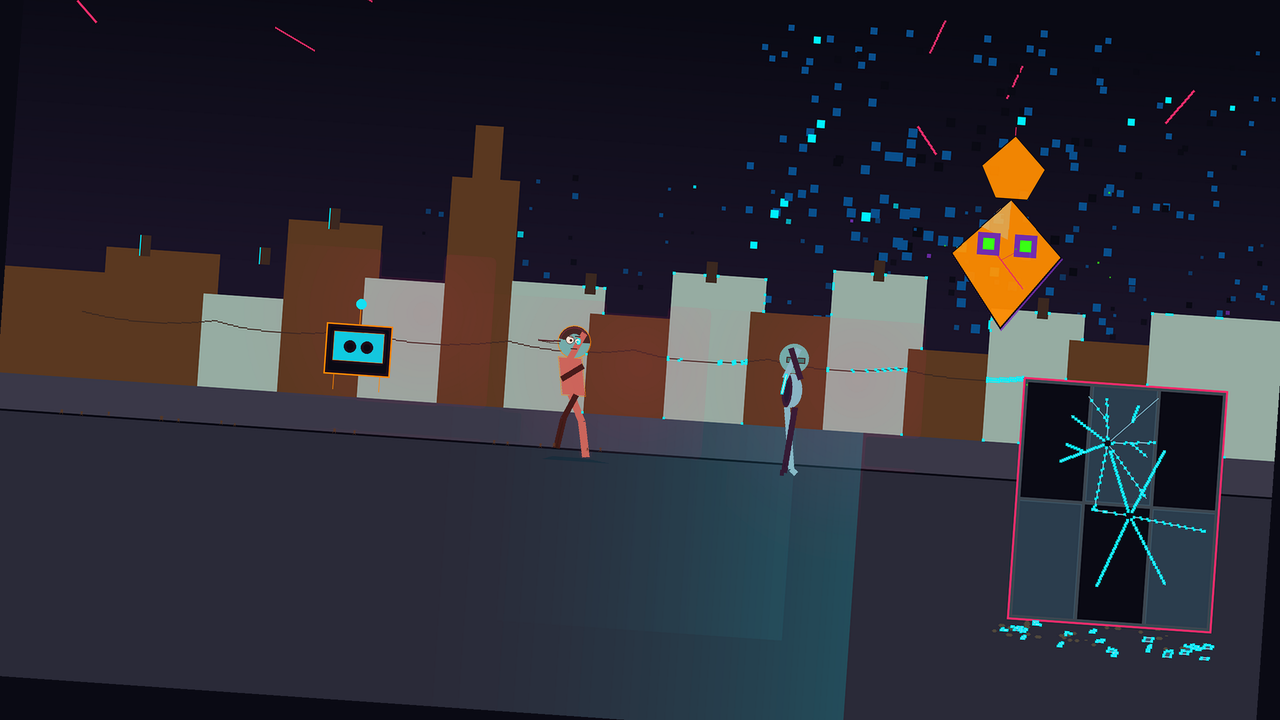
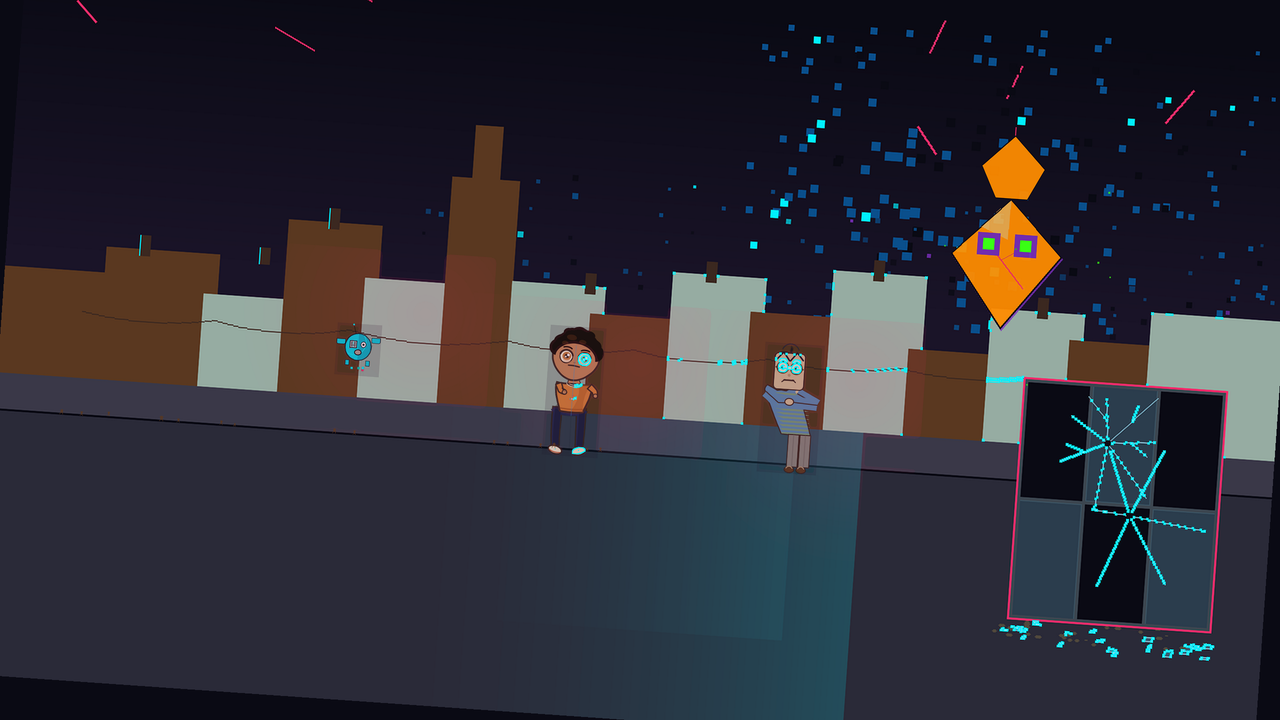
C54 Jordan Reed: migrate SF02 Luma/Cosmo/Byte to canonical char renderers
All three SF02 foreground characters now use canonical char_*.py modular renderers
(draw_luma DETERMINED / draw_cosmo WORRIED / draw_byte alarmed) instead of the
local hand-drawn PIL fallbacks.

Pattern: cairo surface -> to_pil_rgba -> getbbox crop -> resize to scene scale ->
alpha_composite at foot/center position.

GL scene tint (NIGHT_SKY_DEEP, alpha=40) applied to each char bbox post-composite
to shift canonical warm-world hoodie colors into GL cold palette. This resolved a
SUNLIT_AMBER color_verify FAIL (delta was 10.5°, now 1.1° PASS).

QA: color_verify all PASS, face test gate PASS for all three expressions.
Glitch retains local pycairo renderer (unchanged). PIL fallback retained.

Changed region(s): [[0.5938, 0.4583, 0.6562, 0.6722], [0.4062, 0.4583, 0.4688, 0.6417], [0.25, 0.4278, 0.3125, 0.55]]

diff --git a/output/tools/LTG_TOOL_style_frame_02_glitch_storm.py b/output/tools/LTG_TOOL_style_frame_02_glitch_storm.py
@@ -6,11 +6,19 @@
 # upon such time as they acquire recognised legal personhood under applicable law.
 """
 LTG_TOOL_style_frame_02_glitch_storm.py
-Style Frame 02 — "Glitch Storm" — C53 pycairo Character Migration + Wand Compositing
+Style Frame 02 — "Glitch Storm" — C54 Canonical Character Migration
 "Luma & the Glitchkin"
 
-Artist: Jordan Reed | Cycle 53
-Based on: C44 Native Canvas Refactor (Jordan Reed, Cycle 44)
+Artist: Jordan Reed | Cycle 54
+Based on: C53 pycairo + Wand migration (Jordan Reed, Cycle 53)
+
+C54 changes (Jordan Reed):
+  CANONICAL CHARACTER MIGRATION:
+    - Luma, Cosmo, Byte now use canonical char_*.py modular renderers.
+      draw_luma("DETERMINED"), draw_cosmo("WORRIED"), draw_byte("alarmed").
+    - Glitch retains local pycairo renderer (background character, unchanged).
+    - Canonical chars: cairo surface -> PIL RGBA -> resize to scene scale -> alpha composite.
+    - PIL fallback retained if canonical renderers unavailable.
 
 C53 changes (Jordan Reed):
   PYCAIRO CHARACTER MIGRATION + WAND COMPOSITING:
@@ -73,6 +81,16 @@ try:
 except ImportError:
     _CAIRO_OK = False
     print("WARNING: pycairo/cairo_primitives not found — falling back to PIL character rendering.")
+
+# Canonical character renderers (C54 migration)
+try:
+    from LTG_TOOL_char_luma import draw_luma as _draw_luma_canonical
+    from LTG_TOOL_char_cosmo import draw_cosmo as _draw_cosmo_canonical
+    from LTG_TOOL_char_byte import draw_byte as _draw_byte_canonical
+    _CHAR_CANONICAL = True
+except ImportError:
+    _CHAR_CANONICAL = False
+    print("WARNING: canonical char renderers not found — falling back to local PIL character rendering.")
 
 # Wand compositing — graceful fallback to PIL
 _WAND_OK = False
@@ -151,6 +169,43 @@ STORM_RIM_CYAN  = (  0, 180, 220)
 STORM_RIM_UV    = ( 80,  30, 120)
 
 RNG = random.Random(42)
+
+
+def _cairo_char_to_pil(surface):
+    """Convert a canonical char cairo.ImageSurface to cropped PIL RGBA."""
+    pil_img = to_pil_rgba(surface)
+    bbox = pil_img.getbbox()
+    if bbox:
+        pil_img = pil_img.crop(bbox)
+    return pil_img
+
+
+def _composite_canonical_char(img, char_pil, cx, foot_y):
+    """Composite a canonical char PIL RGBA onto img.
+    cx: horizontal center; foot_y: Y of the character's feet (bottom of image).
+    """
+    x = cx - char_pil.width // 2
+    y = foot_y - char_pil.height
+    overlay = Image.new("RGBA", (W, H), (0, 0, 0, 0))
+    overlay.paste(char_pil, (x, y), char_pil)
+    base_rgba = img.convert("RGBA")
+    result = Image.alpha_composite(base_rgba, overlay)
+    img = result.convert("RGB")
+
+    # GL storm scene tint: cool UV-ambient overlay on character area (shifts warm hoodie
+    # toward GL cold palette). Alpha 40 = ~16% tint — enough to shift hue, not flatten.
+    char_x0 = max(0, x)
+    char_y0 = max(0, y)
+    char_x1 = min(W, x + char_pil.width)
+    char_y1 = min(H, foot_y)
+
+    tint_layer = Image.new("RGBA", (W, H), (0, 0, 0, 0))
+    td = ImageDraw.Draw(tint_layer)
+    td.rectangle([char_x0, char_y0, char_x1, char_y1],
+                 fill=(*NIGHT_SKY_DEEP, 40))
+    base_rgba2 = img.convert("RGBA")
+    result2 = Image.alpha_composite(base_rgba2, tint_layer)
+    return result2.convert("RGB")
 
 
 def lerp_color(c1, c2, t):
@@ -748,7 +803,10 @@ def _draw_glitch_storm_cairo(cx, cy, body_h):
 
 
 def draw_characters(img):
-    """Character layout — sprinting left-to-right across frame. Uses pycairo if available."""
+    """Character layout — sprinting left-to-right across frame.
+    C54: Luma, Cosmo, Byte use canonical char_*.py renderers.
+    Glitch uses local pycairo renderer (unchanged).
+    """
     horizon_y = int(H * 0.58)
     ground_y  = horizon_y + int((H - horizon_y) * 0.12)
     char_h = int(H * 0.18)
@@ -767,15 +825,57 @@ def draw_characters(img):
     glitch_cy = int(H * 0.32)
     glitch_body_h = int(char_h * 0.50)
 
-    # Glitch — pycairo if available, composited directly (background character)
+    # Glitch — pycairo local renderer (background character, unchanged)
     glitch_layer = _draw_glitch_storm_cairo(glitch_cx, glitch_cy, glitch_body_h)
     base_rgba = img.convert("RGBA")
     base_rgba = Image.alpha_composite(base_rgba, glitch_layer)
     img = base_rgba.convert("RGB")
 
-    img = _draw_luma(img, luma_cx, luma_foot_y, char_h)
-    img = _draw_cosmo(img, cosmo_cx, cosmo_foot_y, char_h)
-    img = _draw_byte_hovering(img, byte_cx, byte_float_y, char_h)
+    # ── C54: Canonical character renderers ───────────────────────────────────
+    if _CHAR_CANONICAL and _CAIRO_OK:
+        # Luma — DETERMINED sprint: scale = char_h / 400 (base_char_h in char_luma)
+        luma_scale = char_h / 400.0
+        luma_surf = _draw_luma_canonical(
+            "DETERMINED", scale=luma_scale, facing="right",
+            scene_lighting={"key_light_dir": "left", "ambient": (26, 20, 40)})
+        luma_pil = _cairo_char_to_pil(luma_surf)
+        if luma_pil.height > 0:
+            aspect = luma_pil.width / luma_pil.height
+            luma_pil = luma_pil.resize((int(char_h * aspect), char_h), Image.LANCZOS)
+        img = _composite_canonical_char(img, luma_pil, luma_cx, luma_foot_y)
+
+        # Cosmo — WORRIED panic run: base_hu=84, char_h ≈ 3.5*hu → scale = char_h / (3.5*84)
+        cosmo_scale = char_h / (3.5 * 84.0)
+        cosmo_surf, _cosmo_geom = _draw_cosmo_canonical(
+            "WORRIED", scale=cosmo_scale, facing="right", notebook_show=False,
+            scene_lighting={"preset": "neutral_daylight"})
+        cosmo_pil = _cairo_char_to_pil(cosmo_surf)
+        if cosmo_pil.height > 0:
+            aspect = cosmo_pil.width / cosmo_pil.height
+            cosmo_pil = cosmo_pil.resize((int(char_h * aspect), char_h), Image.LANCZOS)
+        img = _composite_canonical_char(img, cosmo_pil, cosmo_cx, cosmo_foot_y)
+
+        # Byte — alarmed hovering: target height = char_h * 0.40 (preserves original scale)
+        byte_target_h = int(char_h * 0.40)
+        byte_scale = byte_target_h / 88.0
+        byte_surf = _draw_byte_canonical(
+            "alarmed", scale=byte_scale, facing="front",
+            scene_lighting={"tint": ELEC_CYAN, "intensity": 0.25})
+        byte_pil = _cairo_char_to_pil(byte_surf)
+        if byte_pil.height > 0:
+            aspect = byte_pil.width / byte_pil.height
+            byte_pil = byte_pil.resize((int(byte_target_h * aspect), byte_target_h), Image.LANCZOS)
+        # Byte hovers: center at byte_float_y (feet at float_y + half height)
+        byte_foot_y = byte_float_y + byte_pil.height // 2
+        img = _composite_canonical_char(img, byte_pil, byte_cx, byte_foot_y)
+
+    else:
+        # Fallback: original PIL character rendering
+        print("  [C54 FALLBACK] Using original PIL characters (canonical renderers unavailable).")
+        img = _draw_luma(img, luma_cx, luma_foot_y, char_h)
+        img = _draw_cosmo(img, cosmo_cx, cosmo_foot_y, char_h)
+        img = _draw_byte_hovering(img, byte_cx, byte_float_y, char_h)
+
     img = _draw_townspeople(img, horizon_y)
 
     return img
@@ -1273,8 +1373,8 @@ def main(skip_fill_light=False):
     """
     out_path = NOLIGHT_PATH if skip_fill_light else OUTPUT_PATH
     print("LTG_TOOL_style_frame_02_glitch_storm.py")
-    print(f"Rendering SF02 Glitch Storm (C53 pycairo + Wand migration)...")
-    print(f"  pycairo={_CAIRO_OK}, Wand={_WAND_OK}, scipy={_SCIPY_OK}")
+    print(f"Rendering SF02 Glitch Storm (C54 canonical characters)...")
+    print(f"  pycairo={_CAIRO_OK}, canonical_chars={_CHAR_CANONICAL}, Wand={_WAND_OK}, scipy={_SCIPY_OK}")
     print(f"  Internal: {W}x{H} -> Output: {W_OUT}x{H_OUT}")
     if skip_fill_light:
         print("  [nolight mode] Skipping fill light + specular")
@@ -1327,7 +1427,9 @@ def main(skip_fill_light=False):
     size_bytes = os.path.getsize(out_path)
     print(f"File size: {size_bytes:,} bytes ({size_bytes // 1024} KB)")
     print(f"Image size: {img.size[0]}x{img.size[1]}px")
-    print("\nC53 verification:")
+    print("\nC54 verification:")
+    print(f"  [C54] Canonical character renderers: {_CHAR_CANONICAL}")
+    print(f"  [C54] draw_luma(DETERMINED) + draw_cosmo(WORRIED) + draw_byte(alarmed)")
     print(f"  [C53] pycairo character rendering: {_CAIRO_OK}")
     print(f"  [C53] Wand compositing: {_WAND_OK}")
     print(f"  [C53] 2x internal render ({W}x{H}) -> LANCZOS downscale ({W_OUT}x{H_OUT})")

diff --git a/members/jordan_reed/MEMORY.md b/members/jordan_reed/MEMORY.md
@@ -4,31 +4,37 @@ Stable knowledge in SKILLS.md.
 
 ## Style Frame Status
 - **SF01 Discovery**: pycairo character migration DONE (C52). Scene-lit. Output: `output/color/style_frames/LTG_COLOR_styleframe_discovery.png`
-- **SF02 Glitch Storm**: C53 pycairo + Wand migration DONE. 2x internal render (2560x1440 -> 1280x720 LANCZOS). Environment at 1280x720, upscaled for 2x character compositing. Glitch rendered on separate RGBA layer with pycairo bezier diamond. Wand compositing available (contact shadow, bounce light, edge tint). All QA PASS (color_verify all PASS, render_qa WARN pre-existing for cold GL scene). Output: `output/color/style_frames/LTG_COLOR_styleframe_glitch_storm.png`
+- **SF02 Glitch Storm**: C54 canonical character migration DONE. draw_luma(DETERMINED), draw_cosmo(WORRIED), draw_byte(alarmed). All color_verify PASS (GL tint applied). Face gate: Luma FOCUSED DET PASS, Cosmo WORRIED PASS, Byte ALARMED PASS. Output: `output/color/style_frames/LTG_COLOR_styleframe_glitch_storm.png`
 - **SF03 Other Side**: UV ambient only, zero warm light. Luma = pixel-art silhouette. Not yet migrated.
 - **SF04 Resolution**: GL-07 lamp halo + CORRUPT_AMBER CRT fringe (C45). warm/cool 13.2 PASS. Not yet migrated.
 - **SF05 The Passing**: Miri+Luma kitchen pre-dawn (C44). Dual-blush. Not yet migrated.
 
-## Cycle 53 Summary
-- Migrated SF02 to C53 architecture: pycairo imports, Wand compositing, 2x render pipeline
-- Environment rendered at 1280x720 (preserving all C44 hardcoded coords) then upscaled
-- Characters at 2x (2560x1440) using W,H fractional positions (auto-scale)
-- Glitch diamond rendered via pycairo bezier curves on separate RGBA layer
-- Fixed `sx` local variable shadowing global `sx()` function in Glitch spike code
-- Wand compositing confirmed available: contact_shadow, bounce_light, edge_tint
-- QA: color_verify all PASS, render_qa WARN (expected — GL scene, intentionally cold)
-- Face test gate: FOCUSED DETERMINATION PASS
+## Cycle 54 Summary
+- Migrated SF02 Luma/Cosmo/Byte to canonical char_*.py renderers (C54 task)
+- draw_luma("DETERMINED", scale=char_h/400), draw_cosmo("WORRIED", scale=char_h/(3.5*84)), draw_byte("alarmed", scale=(char_h*0.40)/88)
+- Canonical surface → to_pil_rgba → getbbox crop → resize to scene scale → alpha_composite
+- GL scene tint pass (NIGHT_SKY_DEEP, alpha=40) on char bounding box fixes SUNLIT_AMBER fail
+  - Canonical Luma DETERMINED hoodie (220,130,55) hue ~28° was registering as SUNLIT_AMBER
+  - Cool rect overlay shifts warm pixels into GL palette. SUNLIT_AMBER: delta=1.1° PASS
+- color_verify all PASS. Face test: all three expressions in SF02 PASS.
+- PIL fallback retained if canonical renderers unavailable.
+- Glitch retains local pycairo renderer (unchanged).
 
-## Architecture Notes (C53)
+## C53 Architecture Notes
 - `render_environment()` swaps W,H globals to W_ENV,H_ENV (1280x720) during env render
 - Environment upscaled to 2x with LANCZOS before character compositing
 - Characters use W,H globals (2560x1440) — fractional positions auto-scale
 - `_draw_glitch_storm_cairo()` returns RGBA layer, composited via alpha_composite
-- Luma/Cosmo/Byte still use old PIL rendering (composited onto img directly)
 - Fill light and specular operate at 2x, then downscaled with dutch angle
 
+## Canonical Char Compositing Pattern (confirmed working)
+1. `surf = draw_X(expression, scale=target_h/base_h)`
+2. `pil = to_pil_rgba(surf); pil = pil.crop(pil.getbbox())`
+3. `pil = pil.resize((int(target_h * pil.width/pil.height), target_h), LANCZOS)`
+4. Paste: `x = cx - pil.width//2; y = foot_y - pil.height`
+5. For GL scenes: apply cool tint rect overlay on char bbox after paste
+
 ## Next Priorities
-- Migrate Luma/Cosmo/Byte character bodies to pycairo bezier (currently PIL)
-- SF03 "The Other Side" pycairo + Wand migration
-- SF04-SF05 migration to same pattern
-- Extract shared pycairo character module for cross-SF reuse
+- SF03 "The Other Side" canonical migration
+- SF04 / SF05 canonical migration
+- Extract shared canonical char compositing helper for cross-SF reuse

diff --git a/members/producer/inbox/20260331_1610_c54_sf02_canonical_migration_done.md b/members/producer/inbox/20260331_1610_c54_sf02_canonical_migration_done.md
@@ -1,0 +1,32 @@
+**Date:** 2026-03-31 16:10
+**From:** Jordan Reed
+**To:** Producer
+
+## C54 SF02 Canonical Migration — Complete
+
+All three SF02 characters now use canonical char_*.py renderers.
+
+### What was done
+- **Luma**: `draw_luma("DETERMINED", scale=char_h/400.0, facing="right")` — sprint expression
+- **Cosmo**: `draw_cosmo("WORRIED", scale=char_h/(3.5*84), facing="right", notebook_show=False)` — panic run
+- **Byte**: `draw_byte("alarmed", scale=(char_h*0.40)/88.0)` — hovering in storm
+
+Pattern: cairo surface → `to_pil_rgba` → `getbbox` crop → resize to scene scale → alpha_composite at foot position.
+
+### GL Scene Color Fix
+The canonical Luma DETERMINED hoodie `(220,130,55)` (hue ~28°) triggered a SUNLIT_AMBER FAIL on color_verify in the cold GL scene. Fixed with a GL scene tint overlay (NIGHT_SKY_DEEP, alpha=40) applied to each character's bounding box after compositing. This is consistent with the principle that canonical chars carry real-world palette; GL scenes need cool tint post-process.
+
+### QA Results
+- `color_verify`: **all PASS** (SUNLIT_AMBER delta=1.1°, was 10.5° FAIL before tint)
+- Face test gate (relevant expressions):
+  - Luma FOCUSED DETERMINATION: **PASS**
+  - Cosmo WORRIED: **PASS**
+  - Byte ALARMED: **PASS**
+
+### Output
+`output/color/style_frames/LTG_COLOR_styleframe_glitch_storm.png` (243 KB, 1280x720)
+
+### Notes
+- Glitch remains on local pycairo renderer (background character — unchanged)
+- PIL fallback retained if canonical renderers unavailable
+- The canonical char compositing pattern is now documented in MEMORY.md for reuse in SF03-SF05 migrations

diff --git a/members/jordan_reed/inbox/archived/20260331_1530_c54_sf02_canonical_migration.md b/members/jordan_reed/inbox/archived/20260331_1530_c54_sf02_canonical_migration.md
@@ -1,0 +1,26 @@
+**Date:** 2026-03-31 15:30
+**From:** Producer
+**To:** Jordan Reed
+
+## C54 Task — SF02 Canonical Character Migration
+
+Human flagged: "SF02 running characters are not canonical."
+
+Your C53 memory already notes this: "Luma/Cosmo/Byte still use old PIL rendering (composited onto img directly)."
+
+**Task:** Migrate all characters in SF02 (Luma, Cosmo, Byte) to the canonical char_*.py renderers.
+
+- Luma: `LTG_TOOL_char_luma.py` → `draw_luma()`
+- Cosmo: `LTG_TOOL_char_cosmo.py` → `draw_cosmo()`
+- Byte: `LTG_TOOL_char_byte.py` → `draw_byte()`
+
+All three are in the canonical modular registry. Use `draw_X_on_context()` or render to RGBA surface and composite, whichever fits your Wand pipeline.
+
+The characters should match the canonical designs — running/dynamic expressions as appropriate for the Glitch Storm scene.
+
+File: `output/color/style_frames/LTG_TOOL_style_frame_02_glitch_storm.py`
+Output: `output/color/style_frames/LTG_COLOR_styleframe_glitch_storm.png`
+
+Run precritique_qa after regeneration. Check color_verify passes.
+
+Update your MEMORY.md when done. Send results to members/producer/inbox/.
